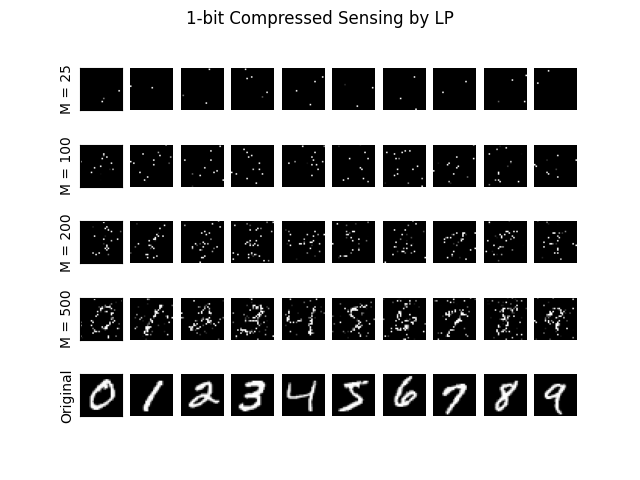
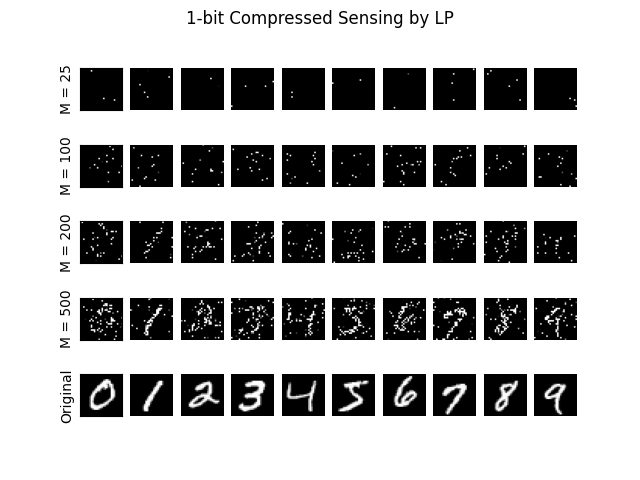
Set M* higher for nicer plot

diff --git a/CODE/preprocessing_laurens.py b/CODE/preprocessing_laurens.py
@@ -22,7 +22,7 @@ def one_bit_cs_by_lp(M_samples, x):
     constraints = [x <= u]
     constraints += [x >= -u]
     constraints += [np.diag(y) @ A @ x >= np.zeros(M)]
-    constraints += [cp.sum(np.diag(y) @ A @ x) >= M*100]
+    constraints += [cp.sum(np.diag(y) @ A @ x) >= M*255]
 
     prob = cp.Problem(cp.Minimize(cp.sum(u)), constraints)
 
